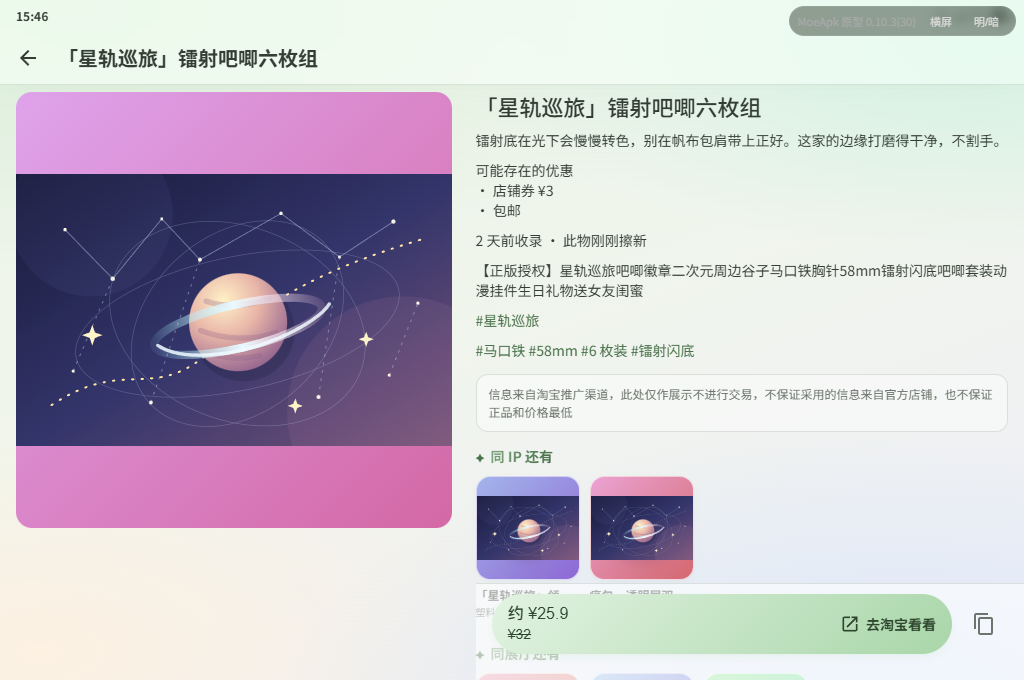
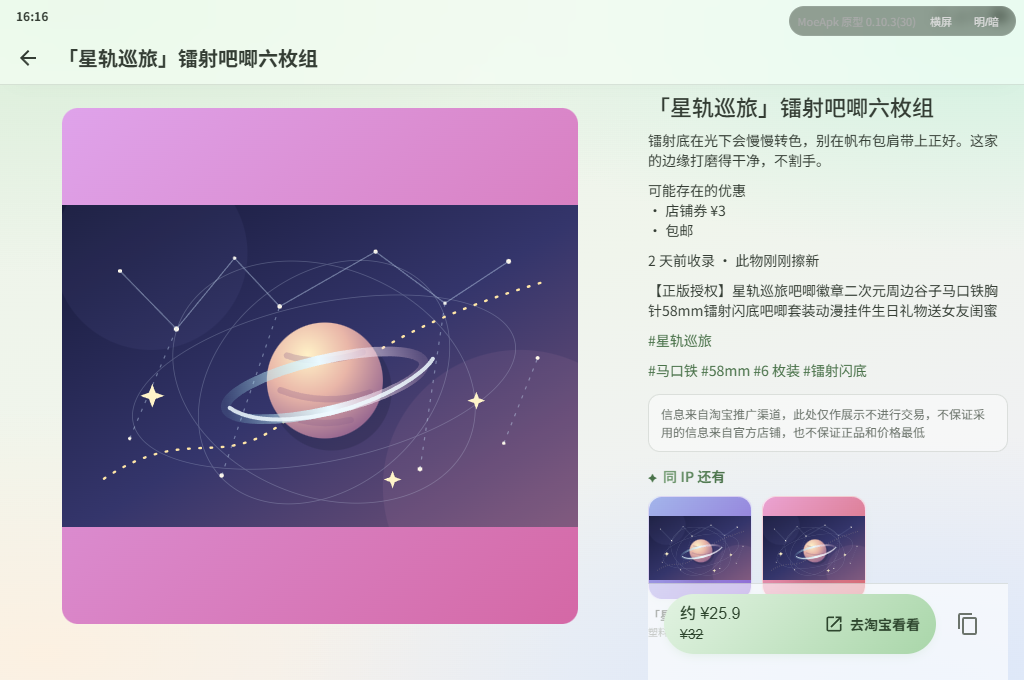
调整: 超宽宅物列表居中并放大详情图

diff --git a/tests/browser-goods-layout.js b/tests/browser-goods-layout.js
@@ -96,14 +96,19 @@ async function listMetrics() {
     const cover = falls.querySelector('.g-cover');
     const img = cover.querySelector('img');
     const r = cover.getBoundingClientRect();
+    const fr = falls.getBoundingClientRect();
+    const content = document.getElementById('content');
+    const cr = content.getBoundingClientRect();
     return { columns: Number(getComputedStyle(falls).columnCount), width: r.width, height: r.height,
       objectFit: img ? getComputedStyle(img).objectFit : 'placeholder',
-      horizontalOverflow: document.getElementById('content').scrollWidth > document.getElementById('content').clientWidth + 1 };
+      gridWidth: fr.width, leftGap: fr.left - cr.left, rightGap: cr.right - fr.right,
+      horizontalOverflow: content.scrollWidth > content.clientWidth + 1 };
   })()`);
 }
 function expectedColumns(width) {
-  const base = width >= 1040 ? 5 : width >= 760 ? 4 : width >= 520 ? 3 : 2;
-  return Math.max(2, base, width >= 1040 ? Math.ceil((Math.max(0, width - 32) + 10) / 250) : 2);
+  const container = Math.min(1600, width);
+  const base = container >= 1040 ? 5 : container >= 760 ? 4 : container >= 520 ? 3 : 2;
+  return Math.max(2, base, container >= 1040 ? Math.ceil((Math.max(0, container - 32) + 10) / 250) : 2);
 }
 async function mosaicRatio() {
   return evaluate(`(() => {
@@ -143,13 +148,16 @@ async function mosaicRatio() {
         assert(Math.abs(value.width - value.height) <= 1, `${width}/${label}: cover is not square ${JSON.stringify(value)}`);
         assert(value.width <= 240.5, `${width}/${label}: oversized cover ${JSON.stringify(value)}`);
         assert(!value.horizontalOverflow, `${width}/${label}: horizontal overflow`);
+        assert(Math.abs(value.leftGap - value.rightGap) <= 1, `${width}/${label}: grid is not centered ${JSON.stringify(value)}`);
       }
+      if (width > 1600) assert(Math.abs(loaded.gridWidth - 1600) <= 1, `${width}: grid must use the 1600px centered track`);
       assert(Math.abs(placeholder.width - loaded.width) <= 1 && Math.abs(placeholder.height - loaded.height) <= 1,
         `${width}: loading changed cover geometry ${JSON.stringify({ placeholder, loaded })}`);
       assert(loaded.objectFit === 'contain', `${width}: product image must be contain`);
       report.lists.push({ width, columns: expected, coverWidth: loaded.width, stable: true });
       if (width === 360) await shot('walk-goods-fixed-square-list-mobile-light.png');
       if (width === 1600) await shot('walk-goods-fixed-square-list-wide-light.png');
+      if (width === 1920) await shot('walk-goods-fixed-square-list-ultrawide-centered-light.png');
     }
 
     await frame(360, 800);
@@ -184,13 +192,21 @@ async function mosaicRatio() {
       const title = document.querySelector('.g-d-title').getBoundingClientRect();
       const cta = document.querySelector('.g-cta').getBoundingClientRect();
       const phone = document.querySelector('.phone').getBoundingClientRect();
-      return { shot: { left: shot.left, right: shot.right, bottom: shot.bottom, width: shot.width, height: shot.height },
+      const layout = document.querySelector('.g-detail-layout').getBoundingClientRect();
+      const info = document.querySelector('.g-detail-info').getBoundingClientRect();
+      return { shot: { left: shot.left, right: shot.right, bottom: shot.bottom, width: shot.width, height: shot.height,
+          centerY: shot.top + shot.height / 2 },
         title: { left: title.left, top: title.top }, cta: { left: cta.left, right: cta.right, top: cta.top, bottom: cta.bottom },
         phone: { left: phone.left, right: phone.right, top: phone.top, bottom: phone.bottom },
+        layout: { top: layout.top, bottom: layout.bottom, centerY: layout.top + layout.height / 2 },
+        infoWidth: info.width,
         display: getComputedStyle(document.querySelector('.g-detail-layout')).display };
     })()`);
     assert(wide.display === 'grid', `wide detail must be two-pane: ${JSON.stringify(wide)}`);
     assert(Math.abs(wide.shot.width - wide.shot.height) <= 1, 'wide detail shot is not square');
+    assert(Math.abs(wide.shot.centerY - wide.layout.centerY) <= 1, `wide detail shot is not vertically centered ${JSON.stringify(wide)}`);
+    assert(Math.abs(wide.infoWidth - 360) <= 1, `wide detail information pane must stay phone-width ${JSON.stringify(wide)}`);
+    assert(wide.shot.width > 450, `wide detail image should be larger than the previous proportional pane ${JSON.stringify(wide)}`);
     assert(wide.shot.bottom <= wide.phone.bottom + 1, `wide detail shot exceeds viewport ${JSON.stringify(wide)}`);
     assert(wide.title.left >= wide.shot.right, `wide detail title is not in the right pane ${JSON.stringify(wide)}`);
     assert(wide.title.top >= wide.phone.top && wide.title.top < wide.phone.bottom, 'wide detail title is outside viewport');

diff --git a/index.html b/index.html
@@ -6,7 +6,7 @@
 <title>MoeApk App 原型</title>
 <meta name="theme-color" content="#8FBC91">
 <link rel="icon" type="image/png" href="assets/ic_launcher_fg.png">
-<link rel="stylesheet" href="css/app.css?v=97">
+<link rel="stylesheet" href="css/app.css?v=98">
 </head>
 <body>
 <div class="proto-bar">
@@ -19,32 +19,32 @@
 </div>
 
 <!-- 数据快照（内嵌为全局变量，file:// 直接可开） -->
-<script src="js/data/catalog.js?v=97"></script>
-<script src="js/data/open.js?v=97"></script>
-<script src="js/data/ai.js?v=97"></script>
-<script src="js/data/goods.js?v=97"></script>
-<script src="js/data/prompts.js?v=97"></script>
+<script src="js/data/catalog.js?v=98"></script>
+<script src="js/data/open.js?v=98"></script>
+<script src="js/data/ai.js?v=98"></script>
+<script src="js/data/goods.js?v=98"></script>
+<script src="js/data/prompts.js?v=98"></script>
 <!-- 核心层 -->
-<script src="js/icons.js?v=97"></script>
-<script src="js/theme.js?v=97"></script>
-<script src="js/store.js?v=97"></script>
-<script src="js/mock.js?v=97"></script>
-<script src="js/ui.js?v=97"></script>
+<script src="js/icons.js?v=98"></script>
+<script src="js/theme.js?v=98"></script>
+<script src="js/store.js?v=98"></script>
+<script src="js/mock.js?v=98"></script>
+<script src="js/ui.js?v=98"></script>
 <!-- 页面（与 Compose 源文件一一对照，见 README 对照表） -->
-<script src="js/screens/apk.js?v=97"></script>
-<script src="js/screens/goods.js?v=97"></script>
-<script src="js/screens/assets.js?v=97"></script>
-<script src="js/screens/ai.js?v=97"></script>
-<script src="js/screens/ai-llm.js?v=97"></script>
-<script src="js/screens/ai-diffusion.js?v=97"></script>
-<script src="js/screens/ai-tts.js?v=97"></script>
-<script src="js/screens/ai-models.js?v=97"></script>
-<script src="js/screens/ai-prompt.js?v=97"></script>
-<script src="js/screens/download.js?v=97"></script>
-<script src="js/screens/mine.js?v=97"></script>
-<script src="js/screens/pages-account.js?v=97"></script>
-<script src="js/screens/about.js?v=97"></script>
-<script src="js/screens/wallpaper-dialog.js?v=97"></script>
+<script src="js/screens/apk.js?v=98"></script>
+<script src="js/screens/goods.js?v=98"></script>
+<script src="js/screens/assets.js?v=98"></script>
+<script src="js/screens/ai.js?v=98"></script>
+<script src="js/screens/ai-llm.js?v=98"></script>
+<script src="js/screens/ai-diffusion.js?v=98"></script>
+<script src="js/screens/ai-tts.js?v=98"></script>
+<script src="js/screens/ai-models.js?v=98"></script>
+<script src="js/screens/ai-prompt.js?v=98"></script>
+<script src="js/screens/download.js?v=98"></script>
+<script src="js/screens/mine.js?v=98"></script>
+<script src="js/screens/pages-account.js?v=98"></script>
+<script src="js/screens/about.js?v=98"></script>
+<script src="js/screens/wallpaper-dialog.js?v=98"></script>
 <script>
   nav.applyHash();
 </script>

diff --git a/css/app.css b/css/app.css
@@ -1357,7 +1357,7 @@ body, .card, .li, .topbar, .top-chrome, .chip, .btn, .tbtn, .field-input,
 
 /* 响应式信息流：列数由 goodsFallColumnCount 写入，图片区恒定 1:1。
  * CSS 多列仍只按标题自然高度排列，图片加载不会再改变卡片几何。 */
-.g-falls { column-count: var(--g-fall-columns, 2); column-gap: 10px; margin-top: 4px; }
+.g-falls { column-count: var(--g-fall-columns, 2); column-gap: 10px; max-width: 1600px; margin: 4px auto 0; }
 .g-fall-card {
   break-inside: avoid; margin-bottom: 10px; border-radius: 16px; overflow: hidden; cursor: pointer;
   background: var(--surface-low); border: 1px solid var(--glass-brd); box-shadow: var(--shadow-card);
@@ -1691,22 +1691,23 @@ body, .card, .li, .topbar, .top-chrome, .chip, .btn, .tbtn, .field-input,
   .g-ip-hall-card { width: 236px; }
 }
 
-/* ---------- 宅物 · 宽屏详情：左侧限高方图，右侧正文与 CTA ---------- */
+/* ---------- 宅物 · 宽屏详情：左侧居中大图，右侧 360px 窄信息栏 ---------- */
 @container (min-width: 720px) {
   .g-detail-layout {
-    display: grid; grid-template-columns: minmax(0, 9fr) minmax(0, 11fr);
-    gap: 24px; align-items: start;
+    display: grid; grid-template-columns: minmax(0, 1fr) 360px;
+    gap: 24px; align-items: stretch; height: calc(100cqh - 132px);
   }
   .g-detail-media {
-    width: min(100%, calc(100cqh - 132px));
+    align-self: center;
+    width: min(100%, calc(100cqh - 164px));
     margin: 0 auto;
   }
   .g-detail-media .g-pager-wrap { margin: 0; }
   .g-detail-media .g-pager { border-radius: 16px; }
-  .g-detail-info { padding-bottom: 96px; }
+  .g-detail-info { height: 100%; overflow-y: auto; scrollbar-width: none; padding-bottom: 96px; }
   .g-detail-info .g-d-title { margin-top: 0; }
   #app.has-page-bottom .content { padding-bottom: 24px; }
-  #app.has-page-bottom .g-cta { left: calc(45% + 15px); }
+  #app.has-page-bottom .g-cta { left: auto; right: 16px; width: 360px; }
 }
 
 /* ============================================================

diff --git a/js/screens/goods.js b/js/screens/goods.js
@@ -217,9 +217,10 @@
   });
 
   // ---------- 展厅（分类页）：固定方图的信息流 ----------
-  // 手机保留 2 / 3 / 4 / 5 列断点；更宽时按 240px 最大封面边长继续增列，不封顶。
+  // 手机保留 2 / 3 / 4 / 5 列断点；更宽时按 240px 最大封面边长增列。
+  // 网格本身最多 1600px 并水平居中，列数也只按实际网格宽度计算。
   function goodsFallColumnCount(containerWidth) {
-    const width = Math.max(0, Number(containerWidth) || 0);
+    const width = Math.min(1600, Math.max(0, Number(containerWidth) || 0));
     const base = width >= 1040 ? 5 : width >= 760 ? 4 : width >= 520 ? 3 : 2;
     const contentWidth = Math.max(0, width - 32); // 内容左右各 16px
     const byMaxCover = width >= 1040 ? Math.ceil((contentWidth + 10) / (240 + 10)) : 2;

diff --git a/js/screens/about.js b/js/screens/about.js
@@ -3,7 +3,7 @@
 // 原型版本约定：PROTO_COMMIT / PROTO_DATE 记录本原型自身的 git 提交，
 // 由维护者在每次提交前更新为当前 HEAD（提交者无需处理）。
 // App 关于页显示同形态的一行，值为其 UX 同步所依据的原型提交。
-const PROTO_COMMIT = '6fbc830';
+const PROTO_COMMIT = 'aa32f68';
 const PROTO_DATE = '2026-11-20';
 const PROTO_COMMIT_URL = 'https://github.com/Attect/moeapk-app-ux/commit/';
 

diff --git a/tests/ai-diffusion-wizard.test.js b/tests/ai-diffusion-wizard.test.js
@@ -150,5 +150,5 @@ test('生图原型保持纯静态，无网络或模块依赖', () => {
   const html = read('index.html');
   const versions = [...html.matchAll(/\?v=(\d+)/g)].map(m => m[1]);
   assert.ok(versions.length >= 20);
-  assert.ok(versions.every(v => v === '97'));
+  assert.ok(versions.every(v => v === '98'));
 });

diff --git a/tests/ai-llm-contract.test.js b/tests/ai-llm-contract.test.js
@@ -68,5 +68,5 @@ test('所有静态资源统一使用本轮版本号', () => {
   const html = read('index.html');
   const versions = [...html.matchAll(/\?v=(\d+)/g)].map(m => m[1]);
   assert.ok(versions.length >= 20);
-  assert.ok(versions.every(v => v === '97'));
+  assert.ok(versions.every(v => v === '98'));
 });

diff --git a/docs/design-notes.md b/docs/design-notes.md
@@ -49,6 +49,19 @@
 
 ## 设计沿革
 
+### 第三十九轮（2026-11-20，超宽列表居中与详情大图优先）
+
+**起因**：第三十八轮解决了方图与列数问题，但超宽时列表仍铺满整个内容区，视觉重心被拉向两侧；宽屏详情按 45%/55% 分栏，图片顶部对齐且信息栏过宽，没有发挥大屏展示商品图的价值。
+
+**定案**：
+1. **列表轨道限宽居中**：商品列表网格最大宽度 1600px，超出后网格整体水平居中，左右留白相等。列数按实际网格宽度计算，不再按整个屏幕宽度增加；1600px 以内的 2→7 列行为不变。
+2. **详情弹性大图 + 手机宽度信息栏**：容器 ≥720px 时，左侧占满剩余横向空间，右侧固定 360px。图片在左侧区域内水平、垂直居中，边长取栏宽与扣除 Pager 圆点后的可用高度之较小值；标题、正文、推荐和 CTA 共用右侧窄栏并独立滚动。
+3. **保留既有规则**：商品图固定 1:1、商品 `contain` / 装饰 `cover`、首页 mosaic 稳定比例和窄屏纵向详情均不变。
+
+**原型同步**：`.g-falls` 使用 `max-width:1600px` 与自动左右 margin；列数计算同步限宽。详情网格改为 `1fr + 360px`，媒体同时按双轴居中，右侧信息栏与 CTA 同宽。全部资源版本号 **v=98**。新增超宽居中截图 `walk-goods-fixed-square-list-ultrawide-centered-light.png`。
+
+**走查**：真实 Chrome 除回归固定方图和加载稳定性外，新增断言 1920px 下列表轨道宽 1600px、左右留白一致且为 7 列；1024×680 详情右栏宽 360px、图片垂直中心与可用区域一致、图片大于旧分栏且正文与 CTA 可见。
+
 ### 第三十八轮（2026-11-20，宅物固定方图与超宽持续增列）
 
 **起因**：展厅商品卡加载前使用随机比例占位，加载后又改成位图自身比例，造成卡片变高和多列重排；首页物品形态墙只固定像素高度，容器变宽后比例持续漂移；详情虽然保持 1:1，但横屏全宽方图会把正文全部挤出首屏。第二十八轮“真实图片加载后按 naturalWidth/naturalHeight 校正”的规则本轮废止。
